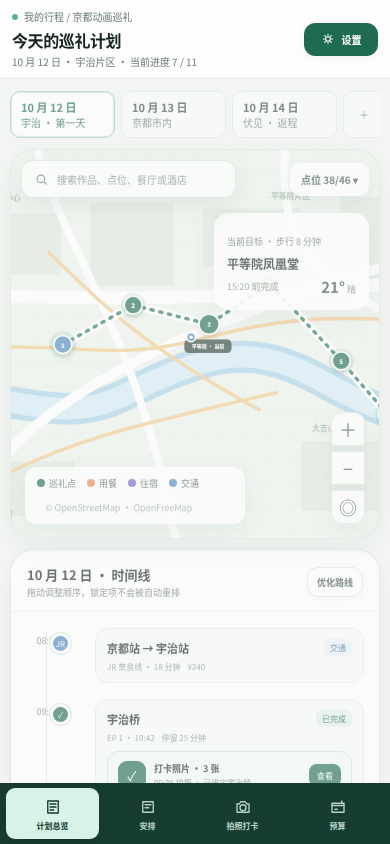
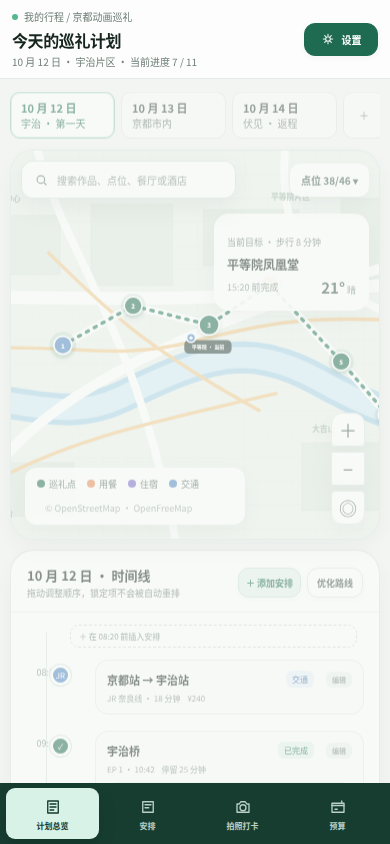
design: add inline itinerary editing

diff --git a/design/enikki-ui.html b/design/enikki-ui.html
@@ -124,6 +124,9 @@ button,input{font:inherit}button{border:0;cursor:pointer}svg{display:block}
 .settings-grid{height:100%;display:grid;grid-template-columns:minmax(0,1.35fr) minmax(320px,.72fr);gap:13px}.settings-column{min-height:0;display:flex;flex-direction:column;gap:12px}.settings-card{min-height:0;overflow:auto}.settings-list{display:grid;gap:1px;padding:5px 0 8px}.setting-row{display:flex;align-items:center;gap:12px;padding:11px 15px;background:#fff}.setting-row:hover{background:#fafcfb}.setting-icon{width:34px;height:34px;display:grid;place-items:center;border-radius:11px;color:var(--green);background:var(--green-soft);font-size:15px}.setting-copy{min-width:0;flex:1}.setting-copy b{display:block;font-size:10px}.setting-copy small{display:block;margin-top:3px;color:var(--muted);font-size:8px}.setting-value{color:#63766d;font-size:9px}.switch{position:relative;width:34px;height:20px;flex:0 0 34px;border-radius:99px;background:#cbd7d1}.switch:after{content:"";position:absolute;width:16px;height:16px;left:2px;top:2px;border-radius:50%;background:#fff;box-shadow:0 2px 5px rgba(0,0,0,.14);transition:.2s}.switch.on{background:var(--green)}.switch.on:after{left:16px}.setting-action{padding:6px 9px;border-radius:8px;color:var(--green);background:var(--green-soft);font-size:8px;font-weight:750}.storage-ring{position:relative;width:130px;height:130px;margin:6px auto 14px;border-radius:50%;background:conic-gradient(var(--green) 0 62%,#e3ebe6 62% 100%)}.storage-ring:before{content:"";position:absolute;inset:22px;border-radius:50%;background:#fff}.storage-copy{position:absolute;inset:0;display:grid;place-content:center;text-align:center}.storage-copy b{font-size:19px}.storage-copy small{color:var(--muted);font-size:8px}.data-actions{display:grid;grid-template-columns:1fr 1fr;gap:8px;padding:0 14px 14px}.data-action{padding:12px 8px;border:1px solid #e3ebe6;border-radius:13px;color:#40564d;background:#fafcfb;font-size:9px;font-weight:750;text-align:left}.data-action span{display:block;margin-top:5px;color:var(--muted);font-size:8px;font-weight:500}
 @media(max-width:760px){.settings-grid{display:block;height:auto}.settings-column{display:block}.settings-card{margin-bottom:10px}.setting-row{padding:10px 12px}.data-actions{grid-template-columns:1fr 1fr}.settings-top-action{min-width:74px}.settings-top-action.settings-active{box-shadow:0 0 0 3px #cce7dc}}
 
+.card-head-actions{display:flex;gap:6px;margin-left:auto}.timeline-insert{position:relative;z-index:3;width:calc(100% - 60px);margin:4px 0 4px 50px;padding:5px 8px;border:1px dashed #cbdad3;border-radius:9px;color:#6f8279;background:rgba(255,255,255,.7);font-size:8px;text-align:left}.timeline-insert:hover{color:var(--green);border-color:#8fc7b1;background:#f2faf6}.event-edit{margin-left:5px;padding:3px 6px;border-radius:6px;color:#61736a;background:#eef3f0;font-size:7px}.event-edit:hover{color:#fff;background:var(--green)}.plan-editor-backdrop{position:fixed;inset:0;z-index:70;display:none;place-items:center;padding:20px;background:rgba(18,37,30,.36);backdrop-filter:blur(5px)}.plan-editor-backdrop.open{display:grid}.plan-editor{width:min(690px,calc(100vw - 40px));max-height:min(760px,calc(100vh - 40px));overflow:auto;border-radius:24px;background:#fff;box-shadow:0 30px 80px rgba(14,35,27,.28)}.plan-editor-head{display:flex;align-items:center;gap:12px;padding:17px 18px;border-bottom:1px solid #e8eeea}.plan-editor-head h3{margin:0;font-size:16px}.plan-editor-head p{margin:3px 0 0;color:var(--muted);font-size:9px}.plan-editor-close{margin-left:auto;width:32px;height:32px;border-radius:10px;color:#62756c;background:#f0f4f2;font-size:17px}.plan-type-grid{display:grid;grid-template-columns:repeat(6,1fr);gap:7px;padding:14px 16px 8px}.plan-type{display:flex;flex-direction:column;align-items:center;gap:6px;padding:10px 5px;border:1px solid #e4ebe7;border-radius:13px;color:#52675d;background:#fafcfb;font-size:8px}.plan-type i{font-size:17px;font-style:normal}.plan-type.active{border-color:#8fc7b1;color:var(--green);background:#edf8f3;box-shadow:inset 0 0 0 1px #d2e9df}.plan-form{display:grid;grid-template-columns:1fr 1fr;gap:11px;padding:12px 16px 18px}.field{display:grid;gap:5px}.field.full{grid-column:1/-1}.field label{color:#42574d;font-size:9px;font-weight:750}.field input,.field select,.field textarea{width:100%;border:1px solid #dce6e1;border-radius:11px;padding:10px;color:var(--ink);background:#fbfcfb;font-size:10px;outline:none}.field input:focus,.field select:focus,.field textarea:focus{border-color:#80bea4;box-shadow:0 0 0 3px #e4f2ec}.field textarea{min-height:68px;resize:vertical}.money-fields{display:grid;grid-template-columns:1fr 1fr;gap:8px}.editor-foot{display:flex;align-items:center;gap:8px;padding:13px 16px;border-top:1px solid #e8eeea;background:#fafcfb}.editor-foot .danger{margin-right:auto;color:#b04e43;background:#fff0ed}.plan-editor-note{padding:0 16px 12px;color:var(--muted);font-size:8px}
+@media(max-width:760px){.plan-editor-backdrop{padding:0;place-items:end center}.plan-editor{width:100%;max-height:88vh;border-radius:24px 24px 0 0}.plan-type-grid{grid-template-columns:repeat(3,1fr)}.plan-form{grid-template-columns:1fr}.field.full{grid-column:auto}.money-fields{grid-template-columns:1fr 1fr}.card-head-actions{display:flex}.card-head-actions .btn:first-child{padding-inline:7px}.timeline-insert{width:calc(100% - 55px);margin-left:45px}.event-edit{display:inline-flex}}
+
 </style>
 </head>
 <body>
@@ -200,7 +203,7 @@ button,input{font:inherit}button{border:0;cursor:pointer}svg{display:block}
         <div class="meta-pill">☁ <b>离线可用</b></div>
       </div>
       <div class="top-actions">
-        <button class="btn" onclick="toast('已打开交通、住宿与餐次规划')"><svg viewBox="0 0 24 24"><path d="M12 5v14M5 12h14"/></svg>添加安排</button>
+        <button class="btn" onclick="openPlanEditor('spot')"><svg viewBox="0 0 24 24"><path d="M12 5v14M5 12h14"/></svg>添加安排</button>
         <button class="btn soft" onclick="toast('Anitabi 点位已同步：38 / 46')"><svg viewBox="0 0 24 24"><path d="m12 3 2.5 5.5L20 11l-5.5 2.5L12 19l-2.5-5.5L4 11z"/></svg>导入点位</button>
         <button class="btn primary settings-top-action" id="settingsTopButton" onclick="activateView('settings')"><svg viewBox="0 0 24 24"><path d="M12 8a4 4 0 100 8 4 4 0 000-8z"/><path d="M4 12h2M18 12h2M12 4v2M12 18v2M6.3 6.3l1.4 1.4M16.3 16.3l1.4 1.4M17.7 6.3l-1.4 1.4M7.7 16.3l-1.4 1.4"/></svg>设置</button>
       </div>
@@ -281,15 +284,16 @@ button,input{font:inherit}button{border:0;cursor:pointer}svg{display:block}
             <div class="card timeline-card">
               <div class="card-head">
                 <div><h3>10 月 12 日 · 时间线</h3><p>拖动调整顺序，锁定项不会被自动重排</p></div>
-                <button class="btn">优化路线</button>
+                <div class="card-head-actions"><button class="btn soft" onclick="openPlanEditor('spot')">＋ 添加安排</button><button class="btn">优化路线</button></div>
               </div>
               <div class="timeline">
-                <div class="event transport"><div class="event-time">08:20</div><div class="event-node">JR</div><div class="event-body"><div class="event-head"><strong>京都站 → 宇治站</strong><span class="tag">交通</span></div><div class="event-meta"><span>JR 奈良线 · 18 分钟</span><span>¥240</span></div></div></div>
-                <div class="event"><div class="event-time">09:10</div><div class="event-node">✓</div><div class="event-body"><div class="event-head"><strong>宇治桥</strong><span class="tag">已完成</span></div><div class="event-meta"><span>EP 1 · 10:42</span><span>停留 25 分钟</span></div><div class="planner-checkin"><div class="camera-mini">✓</div><div><b>打卡照片 · 3 张</b><small>09:35 拍摄 · 已绑定宇治桥</small></div><button onclick="activateView('checkin')">查看</button></div></div></div>
-                <div class="event current"><div class="event-time">10:20</div><div class="event-node">●</div><div class="event-body"><div class="event-head"><strong>平等院凤凰堂</strong><span class="tag">当前目标</span></div><div class="event-meta"><span>EP 5 · 08:16</span><span>预约 10:30</span></div><div class="event-note">门票已加入预算。步行前往下一站约 12 分钟。</div><div class="planner-checkin"><div class="camera-mini">◉</div><div><b>还没有打卡照片</b><small>建议对齐参考图后拍摄 2—3 张</small></div><button onclick="activateView('checkin')">去拍照</button></div></div></div>
-                <div class="event meal"><div class="event-time">12:40</div><div class="event-node">食</div><div class="event-body"><div class="event-head"><strong>中村藤吉本店</strong><span class="tag">已预约</span></div><div class="event-meta"><span>抹茶荞麦面</span><span>2 人 · ¥4,200</span></div></div></div>
-                <div class="event"><div class="event-time">14:00</div><div class="event-node">5</div><div class="event-body"><div class="event-head"><strong>大吉山展望台</strong><span class="tag">待巡礼</span></div><div class="event-meta"><span>EP 8 · 16:03</span><span>步行 28 分钟</span></div></div></div>
-                <div class="event lodging"><div class="event-time">18:30</div><div class="event-node">宿</div><div class="event-body"><div class="event-head"><strong>京都八条口酒店</strong><span class="tag">已确认</span></div><div class="event-meta"><span>入住 18:30</span><span>¥12,800 / 晚</span></div></div></div>
+                <button class="timeline-insert" onclick="openPlanEditor('transport')">＋ 在 08:20 前插入安排</button>
+                <div class="event transport"><div class="event-time">08:20</div><div class="event-node">JR</div><div class="event-body"><div class="event-head"><strong>京都站 → 宇治站</strong><span class="tag">交通</span><button class="event-edit" onclick="openPlanEditor('transport')">编辑</button></div><div class="event-meta"><span>JR 奈良线 · 18 分钟</span><span>¥240</span></div></div></div>
+                <div class="event"><div class="event-time">09:10</div><div class="event-node">✓</div><div class="event-body"><div class="event-head"><strong>宇治桥</strong><span class="tag">已完成</span><button class="event-edit" onclick="openPlanEditor('spot')">编辑</button></div><div class="event-meta"><span>EP 1 · 10:42</span><span>停留 25 分钟</span></div><div class="planner-checkin"><div class="camera-mini">✓</div><div><b>打卡照片 · 3 张</b><small>09:35 拍摄 · 已绑定宇治桥</small></div><button onclick="activateView('checkin')">查看</button></div></div></div>
+                <div class="event current"><div class="event-time">10:20</div><div class="event-node">●</div><div class="event-body"><div class="event-head"><strong>平等院凤凰堂</strong><span class="tag">当前目标</span><button class="event-edit" onclick="openPlanEditor('spot')">编辑</button></div><div class="event-meta"><span>EP 5 · 08:16</span><span>预约 10:30</span></div><div class="event-note">门票已加入预算。步行前往下一站约 12 分钟。</div><div class="planner-checkin"><div class="camera-mini">◉</div><div><b>还没有打卡照片</b><small>建议对齐参考图后拍摄 2—3 张</small></div><button onclick="activateView('checkin')">去拍照</button></div></div></div>
+                <div class="event meal"><div class="event-time">12:40</div><div class="event-node">食</div><div class="event-body"><div class="event-head"><strong>中村藤吉本店</strong><span class="tag">已预约</span><button class="event-edit" onclick="openPlanEditor('meal')">编辑</button></div><div class="event-meta"><span>抹茶荞麦面</span><span>2 人 · ¥4,200</span></div></div></div>
+                <div class="event"><div class="event-time">14:00</div><div class="event-node">5</div><div class="event-body"><div class="event-head"><strong>大吉山展望台</strong><span class="tag">待巡礼</span><button class="event-edit" onclick="openPlanEditor('spot')">编辑</button></div><div class="event-meta"><span>EP 8 · 16:03</span><span>步行 28 分钟</span></div></div></div>
+                <div class="event lodging"><div class="event-time">18:30</div><div class="event-node">宿</div><div class="event-body"><div class="event-head"><strong>京都八条口酒店</strong><span class="tag">已确认</span><button class="event-edit" onclick="openPlanEditor('lodging')">编辑</button></div><div class="event-meta"><span>入住 18:30</span><span>¥12,800 / 晚</span></div></div></div>
               </div>
               <div class="summary-strip">
                 <div class="summary-box"><small>今日交通</small><b>CNY 1,340</b><span>≈ JPY 27,500 · 4 段</span></div>
@@ -650,6 +654,40 @@ button,input{font:inherit}button{border:0;cursor:pointer}svg{display:block}
     </section>
   </main>
 </div>
+<div class="plan-editor-backdrop" id="planEditorBackdrop" onclick="closePlanEditor(event)">
+  <div class="plan-editor" role="dialog" aria-modal="true" onclick="event.stopPropagation()">
+    <div class="plan-editor-head">
+      <div><h3 id="planEditorTitle">添加行程安排</h3><p>可以随时修改，保存后立即进入当天时间线</p></div>
+      <button class="plan-editor-close" onclick="closePlanEditor()">×</button>
+    </div>
+    <div class="plan-type-grid" id="planTypeGrid">
+      <button class="plan-type active" data-plan-type="spot"><i>⌖</i><span>巡礼点</span></button>
+      <button class="plan-type" data-plan-type="transport"><i>🚄</i><span>交通</span></button>
+      <button class="plan-type" data-plan-type="lodging"><i>🏨</i><span>住宿</span></button>
+      <button class="plan-type" data-plan-type="meal"><i>🍵</i><span>用餐</span></button>
+      <button class="plan-type" data-plan-type="checkin"><i>📷</i><span>拍照打卡</span></button>
+      <button class="plan-type" data-plan-type="note"><i>✎</i><span>休息/备注</span></button>
+    </div>
+    <div class="plan-form">
+      <div class="field"><label>开始时间</label><input type="time" value="11:10"></div>
+      <div class="field"><label>结束时间</label><input type="time" value="11:45"></div>
+      <div class="field full"><label>标题</label><input id="planEditorName" value="凤凰堂参拜与拍照" placeholder="例如：宇治桥打卡"></div>
+      <div class="field full"><label>地点或区间</label><input value="平等院凤凰堂 · 宇治市宇治莲华 116" placeholder="搜索地点或输入自定义位置"></div>
+      <div class="field"><label>费用 · CNY</label><input value="60.00"></div>
+      <div class="field"><label>费用 · JPY</label><input value="1,230"></div>
+      <div class="field"><label>所属片区</label><select><option>平等院片区</option><option>宇治站片区</option><option>大吉山片区</option></select></div>
+      <div class="field"><label>提醒</label><select><option>提前 15 分钟</option><option>不提醒</option><option>提前 30 分钟</option></select></div>
+      <div class="field full"><label>备注</label><textarea placeholder="交通路线、预约信息、拍摄要求或注意事项"></textarea></div>
+    </div>
+    <div class="editor-foot">
+      <button class="btn danger" onclick="toast('已移除该安排')">删除</button>
+      <button class="btn" onclick="closePlanEditor()">取消</button>
+      <button class="btn soft" onclick="savePlanEditor(false)">保存并继续添加</button>
+      <button class="btn primary" onclick="savePlanEditor(true)">保存安排</button>
+    </div>
+    <div class="plan-editor-note">支持拖动排序、锁定时间和设置预约提醒；费用会自动计入双币种预算。</div>
+  </div>
+</div>
 <div class="mobile-sheet-backdrop" id="mobileSheetBackdrop" onclick="closeMobileSheet(event)">
   <div class="mobile-sheet" role="dialog" aria-modal="true" onclick="event.stopPropagation()">
     <div class="sheet-handle"></div>
@@ -744,8 +782,50 @@ document.getElementById('mobileSheetGrid').addEventListener('click', (event) => 
   }
 });
 
+const planTypeDefaults = {
+  spot: ['凤凰堂参拜与拍照', '平等院凤凰堂 · 宇治市宇治莲华 116'],
+  transport: ['平等院 → 大吉山', '步行路线 · 约 28 分钟'],
+  lodging: ['京都八条口酒店', '京都站八条口 · 2 晚'],
+  meal: ['中村藤吉本店', '宇治本店 · 2 人预约'],
+  checkin: ['凤凰堂拍照打卡', '参考图叠影 · 2—3 张'],
+  note: ['休息与自由活动', '平等院周边 · 弹性 30 分钟']
+};
+let activePlanType = 'spot';
+
+function selectPlanType(type) {
+  activePlanType = type;
+  document.querySelectorAll('[data-plan-type]').forEach((button) => {
+    button.classList.toggle('active', button.dataset.planType === type);
+  });
+  const defaults = planTypeDefaults[type] || planTypeDefaults.spot;
+  const name = document.getElementById('planEditorName');
+  if (name) name.value = defaults[0];
+}
+
+function openPlanEditor(type = 'spot') {
+  selectPlanType(type);
+  document.getElementById('planEditorBackdrop').classList.add('open');
+}
+
+function closePlanEditor(event) {
+  if (event && event.target !== event.currentTarget) return;
+  document.getElementById('planEditorBackdrop').classList.remove('open');
+}
+
+function savePlanEditor(closeAfterSave) {
+  toast('安排已保存，并重新计算路线与双币种预算');
+  if (closeAfterSave) closePlanEditor();
+}
+
+document.querySelectorAll('[data-plan-type]').forEach((button) => {
+  button.addEventListener('click', () => selectPlanType(button.dataset.planType));
+});
+
 document.addEventListener('keydown', (event) => {
-  if (event.key === 'Escape') closeMobileSheet();
+  if (event.key === 'Escape') {
+    closeMobileSheet();
+    closePlanEditor();
+  }
 });
 
 document.querySelectorAll('.day-tabs button').forEach((button) => {
@@ -771,6 +851,9 @@ const initialView = initialParams.get('view') || 'planner';
 activateView(initialView, false);
 const initialSheet = initialParams.get('sheet');
 if (initialSheet) openMobileSheet(initialSheet);
+if (initialParams.get('editor') === 'add') {
+  openPlanEditor(initialParams.get('type') || 'spot');
+}
 </script>
 </body>
 </html>

diff --git a/docs/IMPLEMENTATION_PLAN.md b/docs/IMPLEMENTATION_PLAN.md
@@ -210,7 +210,13 @@ MiriaGo 的用户流程研究和取舍见
 
 地图点位按视口和缩放级别查询，不能一次性把全球点位加载到内存。低缩放级别使用聚合点，高缩放级别才加载点位详情。
 
-#### 6.1.1 软件内地图查看与选点
+#### 6.1.1 计划总览内联编辑
+
+计划总览必须可以直接增删改巡礼点、交通、住宿、用餐、拍照打卡和备注。
+每种安排使用统一 `PlanItem` 时间线模型，并通过命令完成事务写入、冲突校验、
+预算重算和离线状态更新。移动端使用底部编辑面板，桌面端使用编辑抽屉或弹窗。
+
+#### 6.1.2 软件内地图查看与选点
 
 第一阶段必须支持在 ENikki 内直接查看巡礼地图并选择点位，不能要求用户跳转到
 Anitabi 网页后再抄录坐标。
@@ -481,7 +487,7 @@ Anitabi 的开放接口、缓存策略、数据映射和许可边界见
 
 - Android 和 Windows 客户端。
 - 作品/点位手动添加、编辑和导入。
-- 地图聚合、点位详情、每日路线和手动调整。
+- 地图聚合、点位详情、每日路线、总览内联编辑和手动调整。
 - 基础步行/驾车时间估算与外部导航跳转。
 - 城际交通、市内交通、住宿区域和每晚住宿安排。
 - 每日早餐、午餐、晚餐和咖啡，支持餐厅候选、预约状态与饮食限制。

diff --git a/docs/TRIP_PLANNING_ARCHITECTURE.md b/docs/TRIP_PLANNING_ARCHITECTURE.md
@@ -319,6 +319,43 @@ ExportTrip
 
 每个用例输入命令，输出新的领域状态或明确错误，不能在 Widget 中直接拼 SQL。
 
+### 6.1 计划总览内联编辑
+
+计划总览是主要行程编辑器，不只是一个只读时间线。用户可以直接：
+
+- 在任意事件之间插入新的 `PlanItem`；
+- 编辑开始时间、结束时间、标题、地点、片区、提醒和备注；
+- 添加巡礼点、交通、住宿、用餐、拍照打卡、休息和普通备注；
+- 输入 CNY 与 JPY，或输入原币种后自动换算；
+- 拖动调整顺序，锁定固定预约和交通；
+- 复制、删除、撤销和恢复安排；
+- 从地图或候选列表选择地点，不必手工复制坐标。
+
+每次编辑都生成一个应用层命令，例如：
+
+```text
+AddPlanItem
+UpdatePlanItem
+DeletePlanItem
+DuplicatePlanItem
+MovePlanItem
+ReorderPlanItems
+LockPlanItem
+ChangePlanItemType
+```
+
+命令完成后再统一执行：
+
+```text
+校验时间与预约冲突
+→ 更新数据库事务
+→ 重算交通衔接
+→ 重算双币种预算
+→ 更新离线准备状态
+```
+
+UI 可以乐观更新，但数据库失败时必须回滚到上一个有效版本。
+
 ## 7. Riverpod 状态组织
 
 不要创建覆盖整个应用的单体 Controller。按职责拆分：

diff --git a/design/README.md b/design/README.md
@@ -24,6 +24,18 @@ enikki-ui.html?view=offline
 
 ![计划总览](preview-plan.png)
 
+### 总览内联编辑
+
+计划总览可以直接添加和编辑时间线安排，不需要先进入独立模块。支持巡礼点、
+交通、住宿、用餐、拍照打卡和休息/备注，并包含时间、地点、双币种费用、
+所属片区和提醒设置。
+
+![总览添加安排](preview-plan-add.png)
+
+手机端使用底部编辑面板：
+
+![手机端总览添加安排](preview-mobile-plan-add.png)
+
 ### 拍照打卡
 
 ![拍照打卡](preview-checkin.png)
@@ -88,7 +100,7 @@ enikki-ui.html?view=offline
 
 ## 原型范围
 
-- 计划总览：地图、点位、路线、每日时间线和当前目标。
+- 计划总览：地图、点位、路线、每日时间线、内联编辑和当前目标。
 - 交通：城际交通、市内交通、点位衔接和预订状态。
 - 住宿：住宿区域、酒店候选、入住退房和每日通勤。
 - 用餐：早餐、午餐、晚餐、咖啡、预约和饮食限制。

diff --git a/README.md b/README.md
@@ -60,6 +60,7 @@ Bangumi 接入、缓存、限流和 Anitabi 关联流程见
 - 创建单人或多人的巡礼行程，设置日期、出发地、目的地、交通偏好和预算上限。
 - 支持“按作品规划”和“按城市规划”两种入口。
 - 将点位按城市、片区和景点聚类，再拆分为每日路线。
+- 在计划总览时间线中直接添加、编辑、删除、拖动和锁定巡礼点、交通、住宿、用餐、拍照打卡及备注。
 - 调整游览顺序、停留时长、出发时间和交通方式，并在地图上同步预览。
 - 估算步行、公共交通、驾车等方案的距离、时间和费用。
 - 根据营业时间、预约要求、首末班车和日照时间给出可行性提示。
